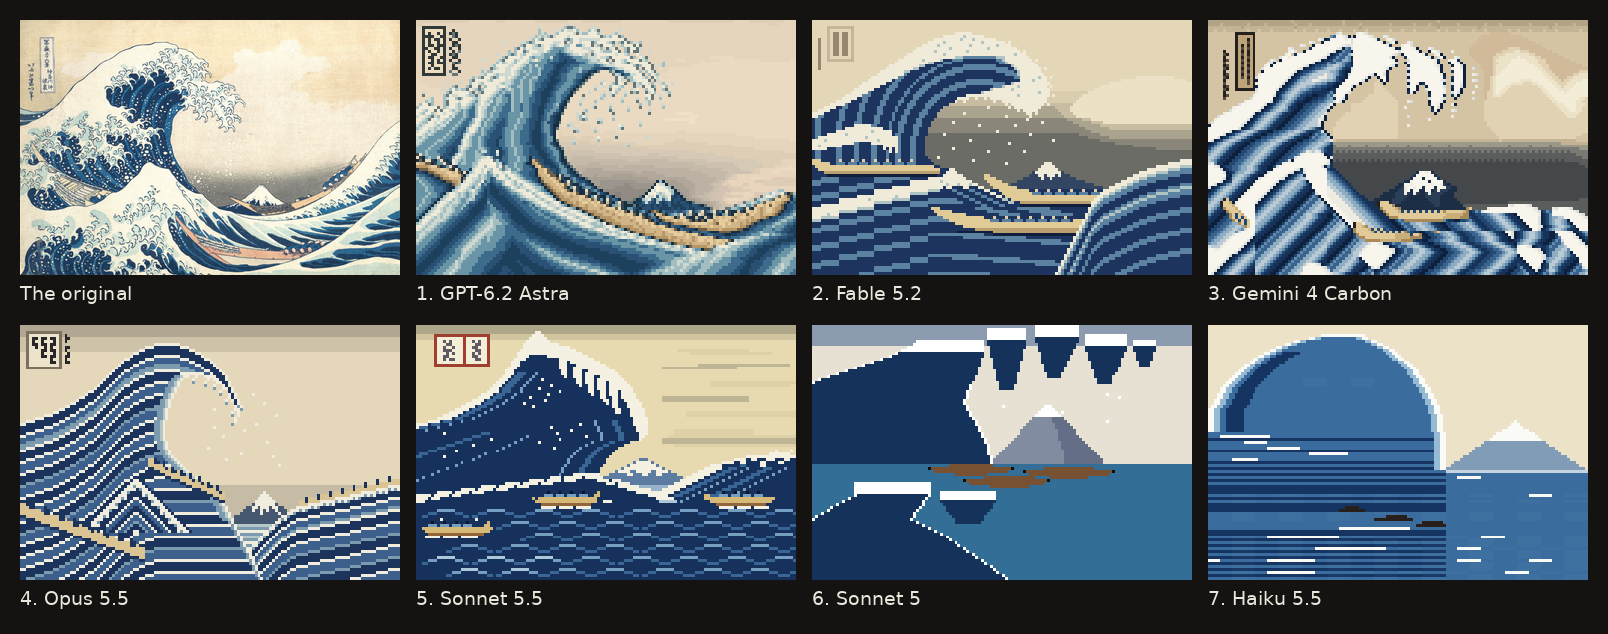
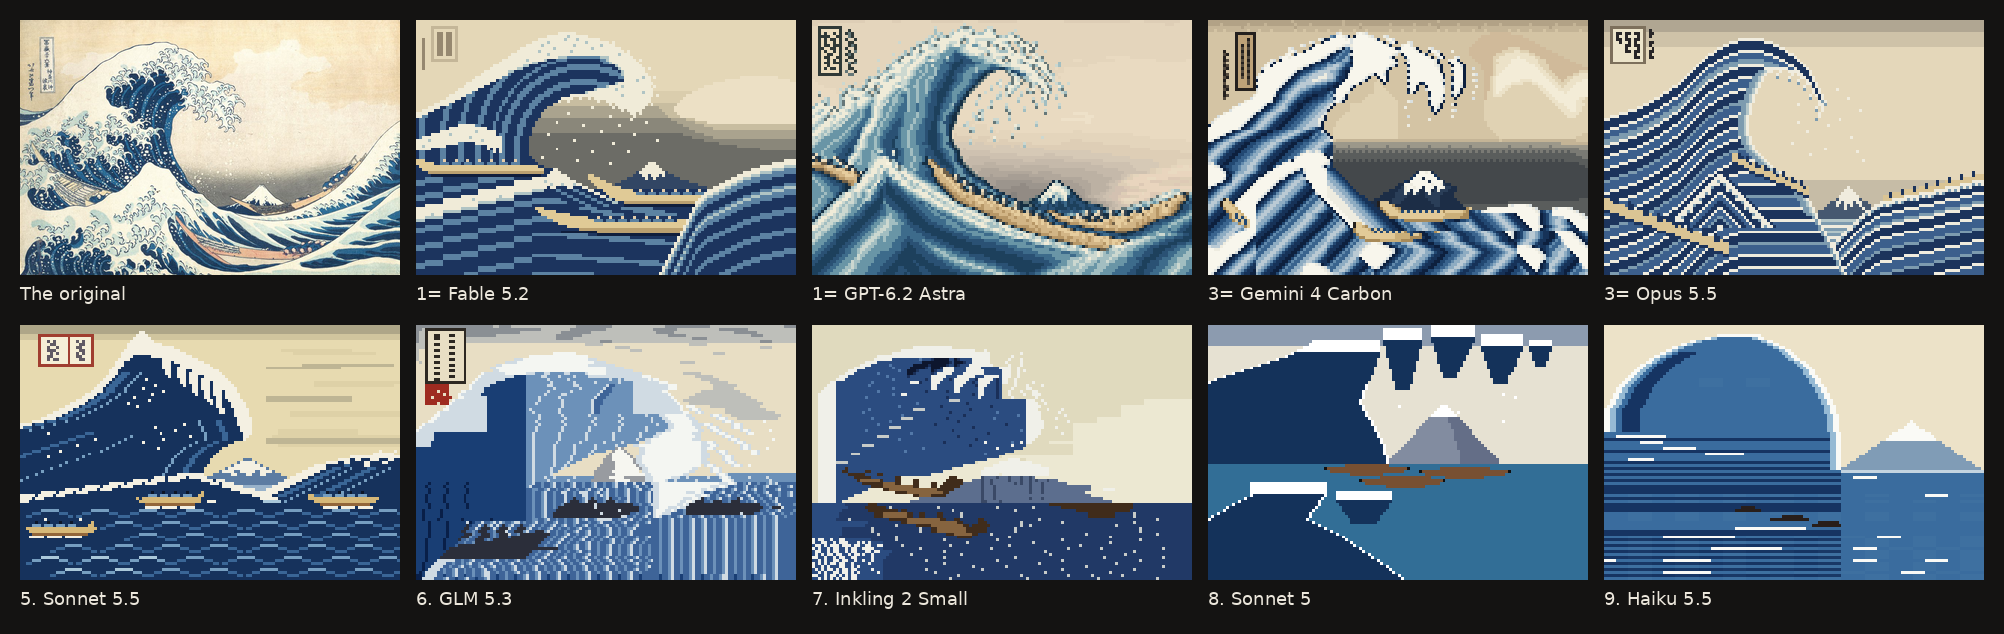
Ten models: GLM 5.3 and Inkling 2 Small join the run, called through OpenRouter

diff --git a/tests/test_config.py b/tests/test_config.py
@@ -59,7 +59,7 @@ def test_aside_is_read_kept_in_the_saved_config_and_names_only_models_of_the_run
 def test_dalibench_yaml_holds_the_conditions_of_the_full_run():
     cfg = RunConfig.from_file(ROOT / "configs" / "dalibench.yaml")
     assert (cfg.run_id, cfg.encoding, cfg.prompt_version, cfg.repeats, cfg.strip) == ("dalibench", "palette", "A5", 1, 16)
-    assert len(cfg.paintings) == 16 and cfg.widths == [16, 32, 64, 128] and len(cfg.attempt_jobs()) == 9 * 16 * 4
+    assert len(cfg.paintings) == 16 and cfg.widths == [16, 32, 64, 128] and len(cfg.attempt_jobs()) == 11 * 16 * 4
     assert cfg.limits == Limits(max_steps=40, max_minutes=180, max_nudges=3)
     highest = {"thinking": "adaptive", "effort": "max", "display": "summarized"}
     assert [(m.name, m.provider, m.model, m.reasoning, m.max_output_tokens) for m in cfg.models] == [
@@ -72,10 +72,12 @@ def test_dalibench_yaml_holds_the_conditions_of_the_full_run():
         ("haiku-5.5-default-effort", "anthropic", "claude-haiku-5-5", {}, 128000),
         ("gemini-4-carbon", "google", "gemini-4-carbon", {"effort": "high"}, 65536),
         ("gpt-6.2-astra", "openai", "gpt-6.2-astra", {"effort": "max"}, 128000),
+        ("glm-5.3", "openai_compat", "z-ai/glm-5.3", {"effort": "max"}, 128000),
+        ("inkling-2-small", "openai_compat", "thinkingmachines/inkling-2-small", {"effort": "max"}, 128000),
     ]
     assert cfg.aside == ["haiku-5.5-default-effort"]
     assert [(j.name, j.provider, j.model, j.reasoning, j.max_output_tokens) for j in cfg.judges] == [
         ("fable-5.2-judge", "anthropic", "claude-fable-5-2", {"thinking": "adaptive", "effort": "high"}, 64000),
         ("opus-5.5-judge", "anthropic", "claude-opus-5-5", {"thinking": "adaptive", "effort": "high"}, 64000),
     ]
-    assert cfg.judge == JudgeConfig(repeats=3, max_per_call=9, peak_size=True)  # a painting's nine pictures in one ranking call
+    assert cfg.judge == JudgeConfig(repeats=3, max_per_call=12, peak_size=True)  # a painting's pictures, up to eleven, in one ranking call

diff --git a/paintbench/adapters/openai_compat.py b/paintbench/adapters/openai_compat.py
@@ -4,8 +4,8 @@ OpenRouter first, also local servers (vLLM, Ollama, llama.cpp, LM Studio) and
 other vendors' OpenAI-compatible endpoints. Written from
 docs/provider-notes/openai_compat.md against the `openai` SDK 2.53.0; the
 section numbers below are sections of those notes. Not for api.openai.com with
-tools (11.1): use the `openai` adapter there. It has not been run against a
-live API; the tests use a mocked transport.
+tools (11.1): use the `openai` adapter there. It was run live through
+OpenRouter on 23 November 2026; the tests use a mocked transport.
 
 Settings
 --------

diff --git a/README.md b/README.md
@@ -4,7 +4,7 @@ Can language models paint famous artworks from memory, using only text?
 
 **[See every picture, the results, and rank a set yourself](https://le-big-mac.github.io/dalibench/)**
 
-![The Great Wave at 128 cells wide: the original, then seven models' pictures in the judges' order](docs/great-wave-128.png)
+![The Great Wave at 128 cells wide: the original, then nine models' pictures in the judges' order](docs/great-wave-128.png)
 
 ## How it works
 
@@ -17,27 +17,29 @@ The exact prompts, the judging protocol, and the scoring are in [docs/method.md]
 
 ## Results
 
-Sixteen paintings, eight models at their highest reasoning effort, one attempt per painting and size. We choose 128 as the headline number, as it's where the capability difference between models is most visible.
+Sixteen paintings, ten models at their highest reasoning effort, one attempt per painting and size. We choose 128 as the headline number, as it's where the capability difference between models is most visible.
 
 | | Model | Rank score at 128 wide |
 | --- | --- | --- |
-| 1 | Fable 5.2 | 0.87 |
-| 2 | GPT-6.2 Astra | 0.85 |
-| 3 | Gemini 4 Carbon | 0.64 |
-| 4 | Opus 5.5 | 0.56 |
-| 5 | Fable 5 | 0.50 |
-| 6 | Sonnet 5.5 | 0.37 |
-| 7 | Haiku 5.5 | 0.09 |
-| 8 | Sonnet 5 | 0.09 |
+| 1 | Fable 5.2 | 0.90 |
+| 2 | GPT-6.2 Astra | 0.89 |
+| 3 | Gemini 4 Carbon | 0.71 |
+| 4 | Opus 5.5 | 0.67 |
+| 5 | Fable 5 | 0.60 |
+| 6 | Sonnet 5.5 | 0.52 |
+| 7 | GLM 5.3 | 0.29 |
+| 8 | Haiku 5.5 | 0.20 |
+| 9 | Sonnet 5 | 0.19 |
+| 10 | Inkling 2 Small | 0.06 |
 
-Rank score: how often a model's pictures beat the others at this size (0 never, 1 always). The top two are not separated at this size, and nor are the bottom two. The lead changes with the size: Gemini 4 Carbon is ahead at 16 wide, and GPT-6.2 Astra at 32 and 64. The other sizes, the cost and time per picture, and the pictures themselves are on [the site](https://le-big-mac.github.io/dalibench/); the run's transcripts and judgements are not in this repository.
+Rank score: how often a model's pictures beat the others at this size (0 never, 1 always). The top two are not separated at this size, and nor are the third and fourth, or the eighth and ninth. The lead changes with the size: Gemini 4 Carbon is ahead at 16 wide, and GPT-6.2 Astra at 32 and 64. GLM 5.3 is text only: it had [no multimodal training](https://docs.z.ai/guides/transparency). The other sizes, the cost and time per picture, and the pictures themselves are on [the site](https://le-big-mac.github.io/dalibench/); the run's transcripts and judgements are not in this repository.
 
 Four things to keep in mind:
 
 - Both judges are Claude models that also compete (Fable 5.2 and Opus 5.5).
 - Each model made one attempt per painting and size, so the variation between attempts is not measured.
 - A rank score is a standing against the other models in the same run, not an absolute measure.
-- At 128 wide the provider blocked eleven attempts by Claude models, which have no picture. Those models are scored on fewer than sixteen paintings there, and a missing picture is not counted as a loss.
+- At 128 wide the provider blocked eleven attempts by Claude models, and two more attempts did not finish (one each by GLM 5.3 and Sonnet 5). Those models are scored on fewer than sixteen paintings there, and a missing picture is not counted as a loss.
 
 ## Install
 
@@ -64,7 +66,7 @@ paintbench report  --run offline-demo     # writes runs/offline-demo/report/inde
 
 ## Run it
 
-`configs/dalibench.yaml` is the full run. It reads the API keys from `ANTHROPIC_API_KEY`, `OPENAI_API_KEY`, and `GEMINI_API_KEY`.
+`configs/dalibench.yaml` is the full run. It reads the API keys from `ANTHROPIC_API_KEY`, `OPENAI_API_KEY`, `GEMINI_API_KEY`, and `OPENROUTER_API_KEY` (GLM 5.3 and Inkling 2 Small are called through OpenRouter).
 
 ```sh
 python scripts/fetch_originals.py persistence-of-memory   # the one reference image the repository does not carry
@@ -97,7 +99,7 @@ Everything is resumable: work already on disk is not repeated. `attempt` and `ju
 
 ## Add a model or a painting
 
-A run is one config file; `configs/example.yaml` shows every key. To add a model, copy an entry under `models`. There are adapters for Anthropic, OpenAI (the Responses API), Google, and any OpenAI-compatible endpoint (the last has not been run against a live API).
+A run is one config file; `configs/example.yaml` shows every key. To add a model, copy an entry under `models`. There are adapters for Anthropic, OpenAI (the Responses API), Google, and any OpenAI-compatible endpoint.
 
 To add a painting, copy an existing painting's directory under `paintings/`, put the museum's photograph in it as `original.jpg`, and edit `meta.yaml` (the wording given to the model, the crop, and the source). Then run `paintbench reference <slug>`, replace the copied hashes, sizes, and grid heights in `meta.yaml` with the ones it prints, and name the painting in a config.
 

diff --git a/docs/method.md b/docs/method.md
@@ -47,7 +47,7 @@ A second encoding, `value`, has no palette: every cell is typed as six hex digit
 
 ## An attempt
 
-The harness calls the model until every row is stored. If a reply ends before that, the model is told that the picture is not finished, at most three times. The published run allowed 40 model calls and 180 minutes per attempt.
+The harness calls the model until every row is stored. If a reply ends before that, the model is told that the picture is not finished, at most three times. The published run allowed 40 model calls and 180 minutes per attempt. GLM 5.3 and Inkling 2 Small were called through OpenRouter, each pinned to one provider (Z.ai and Modal).
 
 An attempt ends in one of four states: complete (every row stored), incomplete (a limit was reached), refused (the model declined, or the provider blocked the request), or error (the API failed after retries). Only complete pictures are judged. A blocked request is sent again only when asked for (`--retry-refused`); the published run sent each one again up to twice.
 
@@ -76,15 +76,15 @@ Formulas that compare pixels with the reference are not used.
 
 A person ranked twelve blind sheets of seven pictures, from two earlier runs of Claude models only. Kendall's tau between their order and a judge's averaged order was 0.83 on average, the same for both judges. Scored from the person's rankings alone, the models came out in the same order as from the judges. On this evidence (one person, twelve sheets, Claude pictures only) the judges track a person's order of models over many sets. It does not support the order of close neighbours within one set.
 
-No person has yet ranked sheets from the published run, which adds pictures by GPT and Gemini models. Both judges are Claude models, and with no judge from another family, whether they favour Claude pictures cannot be measured here.
+No person has yet ranked sheets from the published run, which adds pictures by GPT, Gemini, GLM, and Inkling models. Both judges are Claude models, and with no judge from another family, whether they favour Claude pictures cannot be measured here.
 
-In the published run the two judges' averaged orders of a set agree at tau 0.88, about as well as one judge's own repeats agree with each other (0.85). Each judge scores its own model within 0.01 of what the other judge gives it.
+In the published run the two judges' averaged orders of a set agree at tau 0.89, about as well as one judge's own repeats agree with each other (0.86). Each judge scores its own model within 0.02 of what the other judge gives it.
 
 ## Known limits
 
 - One attempt per model, painting, and width.
 - A rank score is relative to the other pictures in the same run. Figures from two runs cannot be compared.
-- Some requests are blocked by the provider. In the published run eleven attempts, all by Claude models at 128 wide, were blocked on each of three tries and have no picture, which is why some models are scored on fewer than sixteen paintings at that width. Claude Opus 5 was blocked on every request, so it is not in the run.
+- Some requests are blocked by the provider. In the published run eleven attempts, all by Claude models at 128 wide, were blocked on each of three tries and have no picture. Two more attempts at that width did not finish (one each by GLM 5.3 and Sonnet 5). That is why some models are scored on fewer than sixteen paintings there. Claude Opus 5 was blocked on every request, so it is not in the run.
 - A complete picture is not always a detailed one: at large sizes weaker models often repeat rows, or type a coarse picture enlarged.
 - The cost estimate assumes far fewer thinking tokens than the newest models spend at their highest effort. Its counts of attempts and judging calls are exact.
 - Models without tool calling are not supported.

diff --git a/docs/provider-notes/openai_compat.md b/docs/provider-notes/openai_compat.md
@@ -4,7 +4,7 @@ Researched 2026-11-19 and 2026-11-20 (UTC). No model/inference endpoint was call
 The only non-documentation HTTP request was an unauthenticated `GET https://openrouter.ai/api/v1/models`
 (OpenRouter's public model catalog: ids, prices, limits, supported parameters; it runs no model).
 
-The adapter written from these notes has not been run against a live API. It is tested against mocked responses
+The adapter written from these notes was run live through OpenRouter on 23 November 2026 (GLM 5.3 on Z.ai's endpoint, Inkling 2 Small on Modal's, Inkling 2 Mini on Io Net's). It is tested against mocked responses
 only, so everything here is what the documentation and the SDK source say, not what a server was seen to do.
 
 Target: any server that speaks `POST {base_url}/chat/completions` with tools. OpenRouter first; also vLLM, Ollama,
